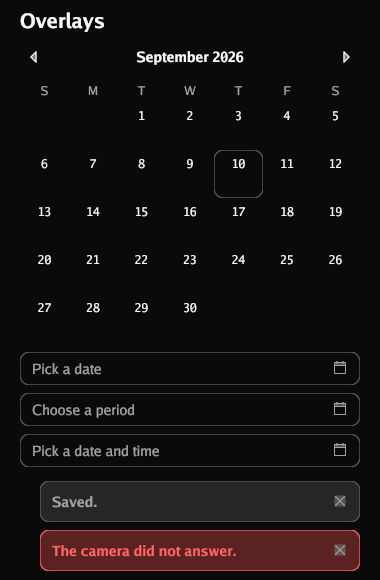
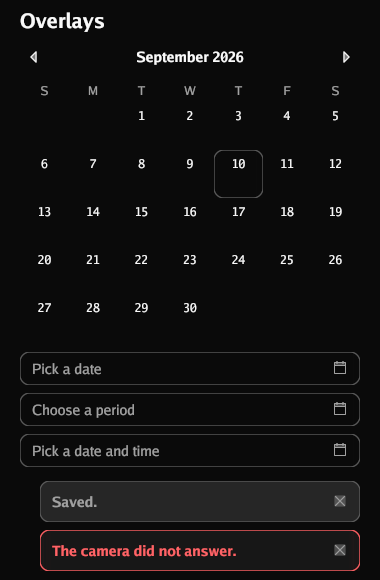
Alert: draw a failure on the card, as Kyse does, so its small message can be read
A failure was the destructive red over a wash of the same red, at 10 per cent.
Measured on the grounds the Alpr.sh theme gives a page, the 12 point message was
4.0:1 in the light scheme and 4.4:1 in the dark, under the 4.5:1 a line that
size needs. Kyse draws it as bg-card with text-destructive; on the card it is
4.8:1 and 6.5:1. The border stays the destructive colour. A note is unchanged.

Effect on the other widgets: the toast is drawn from an alert, so a failure
toast loses its tint too (toast and surfaces goldens regenerated). `wash` stays,
the Highlight still uses it.

Changed region(s): [[0.0868, 0.9, 0.9553, 0.9931]]

diff --git a/widget/alert_display_test.go b/widget/alert_display_test.go
@@ -1,0 +1,46 @@
+package widget_test
+
+import (
+	"image"
+	"image/color"
+	"testing"
+	"time"
+
+	"github.com/arandu-io/ayra"
+	"github.com/arandu-io/ayra/theme"
+	"github.com/arandu-io/ayra/widget"
+)
+
+// Found on 02/11/2026 by drawing the display widgets under the Alpr.sh theme at
+// the width of a phone. Each test below fails on the code that was there.
+
+// TestAFailureAlertIsReadable measures the red of a failure alert against what it
+// is drawn on, in both schemes, on the grounds the Alpr.sh theme gives the page.
+// The red over a tint of the same red left the small message at 4.0:1 in the
+// light scheme and 4.4:1 in the dark, short of the 4.5:1 a line that size needs.
+func TestAFailureAlertIsReadable(t *testing.T) {
+	grounds := map[theme.Scheme]struct{ page, card color.NRGBA }{
+		theme.Light: {color.NRGBA{R: 0xf4, G: 0xf4, B: 0xf4, A: 255}, color.NRGBA{R: 255, G: 255, B: 255, A: 255}},
+		theme.Dark:  {color.NRGBA{A: 255}, color.NRGBA{R: 0x11, G: 0x11, B: 0x11, A: 255}},
+	}
+	for scheme, ground := range grounds {
+		t.Run(scheme.String(), func(t *testing.T) {
+			th := theme.New(scheme)
+			th.Colours.Background, th.Colours.Card = ground.page, ground.card
+
+			p := newPanel()
+			p.size = image.Pt(300, 90)
+			p.under(th, time.Time{}, func(c ayra.Context) ayra.Dimensions {
+				c.Fill(th.Colours.Background)
+				return widget.AlertProps{Title: "Falha", Body: "x", Severity: widget.Failure}.Layout(c)
+			})
+			// Inside the band, in its padding, away from the text.
+			band := p.raster(t).RGBAAt(6, 30)
+			ink := th.Colours.Destructive
+
+			if ratio := contrast(ink, color.NRGBA{R: band.R, G: band.G, B: band.B, A: 255}); ratio < 4.5 {
+				t.Errorf("destructive text on the alert's ground (%v) is %.2f:1, want at least 4.5:1", band, ratio)
+			}
+		})
+	}
+}

diff --git a/frame/display_alerts_golden_test.go b/frame/display_alerts_golden_test.go
@@ -1,0 +1,35 @@
+package frame_test
+
+import (
+	"testing"
+
+	"github.com/arandu-io/ayra"
+	"github.com/arandu-io/ayra/widget"
+)
+
+// A failure alert beside a note, on the surfaces the pages are drawn on. Found on
+// 02/11/2026: the failure was the red over a tint of the same red, and its small
+// message was under the contrast a line that size needs, in both schemes.
+func displayAlerts() ayra.Widget {
+	return func(c ayra.Context) ayra.Dimensions {
+		return column(c, 330,
+			line("Alerts", widget.Heading, true),
+			spacer(8),
+			func(c ayra.Context) ayra.Dimensions {
+				return widget.AlertProps{Title: "Não foi possível salvar", Body: "A leitura não foi gravada: o formato da placa é inválido.", Severity: widget.Failure}.Layout(c)
+			},
+			spacer(8),
+			func(c ayra.Context) ayra.Dimensions {
+				return widget.AlertProps{Title: "Câmera conectada", Body: "O enquadramento já está ao vivo."}.Layout(c)
+			},
+			spacer(8),
+			func(c ayra.Context) ayra.Dimensions {
+				return widget.AlertProps{Title: "Sem conexão com o servidor", Severity: widget.Failure}.Layout(c)
+			},
+		)
+	}
+}
+
+func TestDisplayAlertsLookLikeTheyDid(t *testing.T) {
+	displayPicture(t, "display-alerts", 300, displayAlerts)
+}

diff --git a/widget/alert.go b/widget/alert.go
@@ -107,13 +107,16 @@ func (p AlertProps) Layout(c ayra.Context) ayra.Dimensions {
 
 // colours answers the fill, the ink and the border for this severity.
 //
-// The fill is the severity's own colour at low opacity and the border is the
-// same colour at full, which is one decision rather than eight: a palette that
-// named a background for every severity would need one per scheme, and the
-// pairs drift.
+// The border and the ink are the severity's own colour, which is one decision
+// rather than eight: a palette that named a colour for every severity would
+// need one per scheme, and the pairs drift.
 func (p AlertProps) colours(t theme.Theme) (fill, ink, border color.NRGBA) {
 	if p.Severity == Failure {
-		return wash(t.Colours.Destructive), t.Colours.Destructive, t.Colours.Destructive
+		// On the card, as Kyse draws it (bg-card, text-destructive). A tint of
+		// the red under red text left the small message at 4.0:1 in the light
+		// scheme and 4.4:1 in the dark, short of the 4.5:1 a line that size
+		// needs; the card gives 4.8:1 and 6.5:1.
+		return t.Colours.Card, t.Colours.Destructive, t.Colours.Destructive
 	}
 	return t.Colours.Muted, t.Colours.MutedForeground, t.Colours.Border
 }
